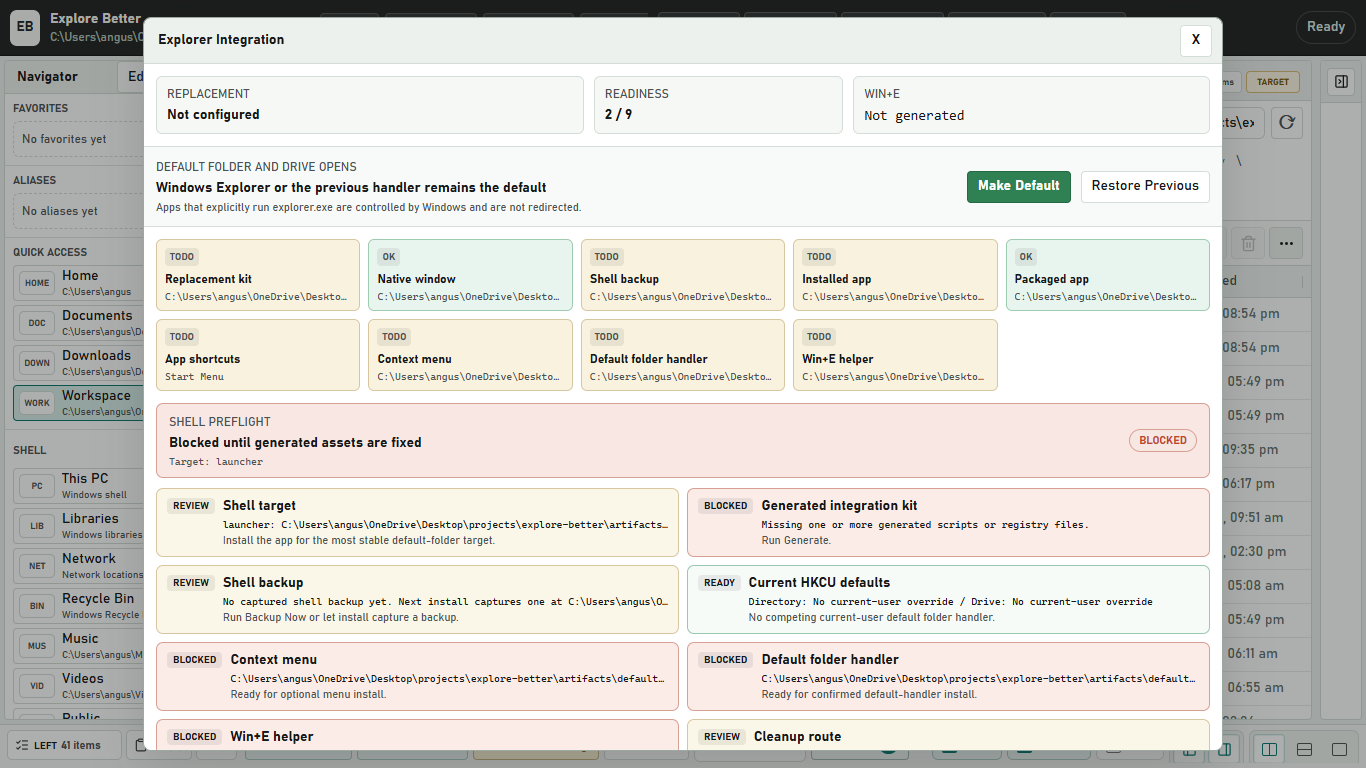
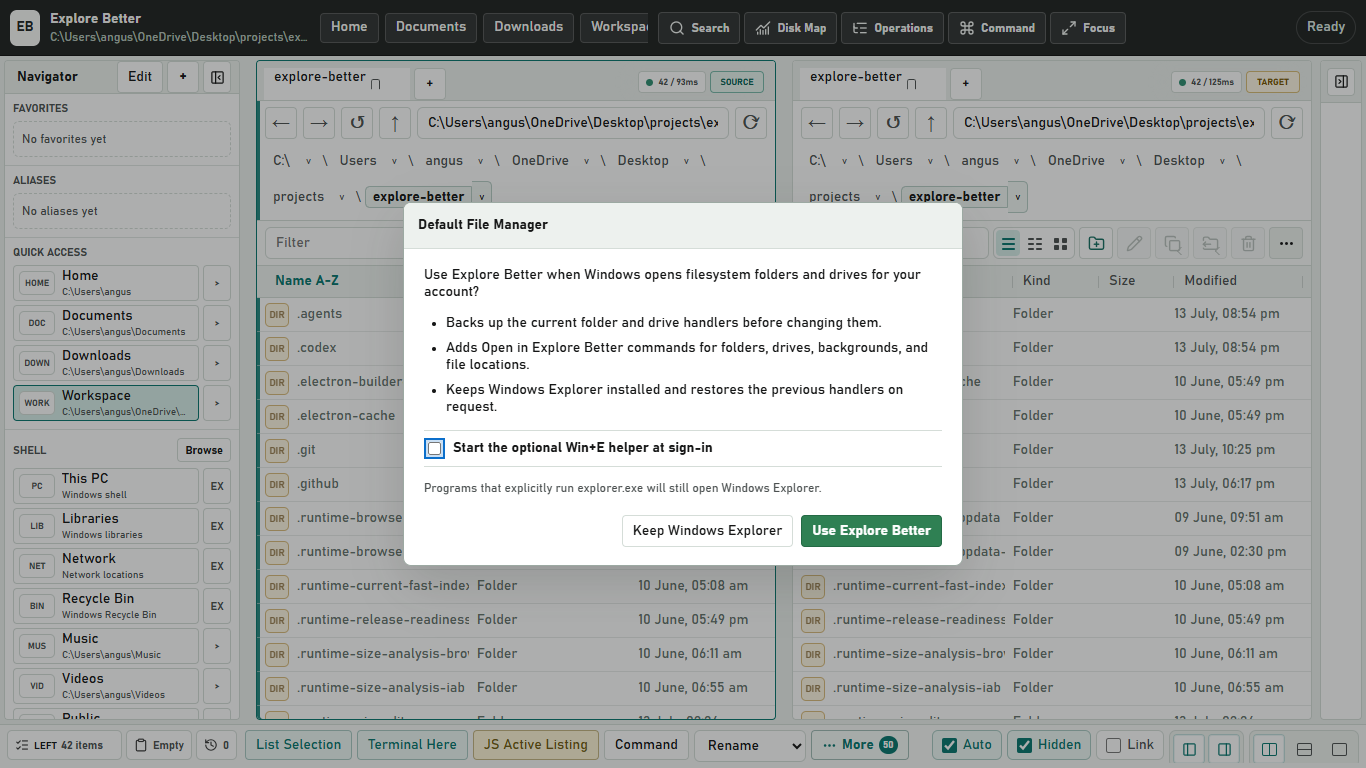
Show ready Explorer integration on landing page

diff --git a/site/index.html b/site/index.html
@@ -142,7 +142,7 @@
               <button class="tour-tab" type="button" role="tab" aria-selected="false" data-tour-tab data-src="assets/command-center.png" data-alt="Explore Better Command Center" data-label="Command Center" data-caption="Search more than one hundred built-in commands, tools, and scripts without leaving the keyboard.">
                 <img src="assets/icons/command.svg" alt="" width="18" height="18" /> Command Center
               </button>
-              <button class="tour-tab" type="button" role="tab" aria-selected="false" data-tour-tab data-src="assets/integration.png" data-alt="Explore Better Explorer Integration Center" data-label="Integration" data-caption="Make Explore Better the default folder handler, then restore the exact previous setup whenever you choose.">
+              <button class="tour-tab" type="button" role="tab" aria-selected="false" data-tour-tab data-src="assets/integration.png" data-alt="Explore Better first-run Default File Manager choice" data-label="Integration" data-caption="Choose Explore Better on first launch, keep Win+E optional, and restore the exact previous setup whenever you choose.">
                 <img src="assets/icons/refresh-cw.svg" alt="" width="18" height="18" /> Integration
               </button>
             </div>
@@ -271,7 +271,7 @@
             </a>
           </div>
           <figure class="integration-visual reveal">
-            <img src="assets/integration.png" alt="Explore Better Integration Center with Make Default and Restore Previous controls" width="1366" height="768" loading="lazy" />
+            <img src="assets/integration.png" alt="Explore Better asking whether it should become the default file manager while keeping Windows Explorer available" width="1366" height="768" loading="lazy" />
           </figure>
         </div>
       </section>